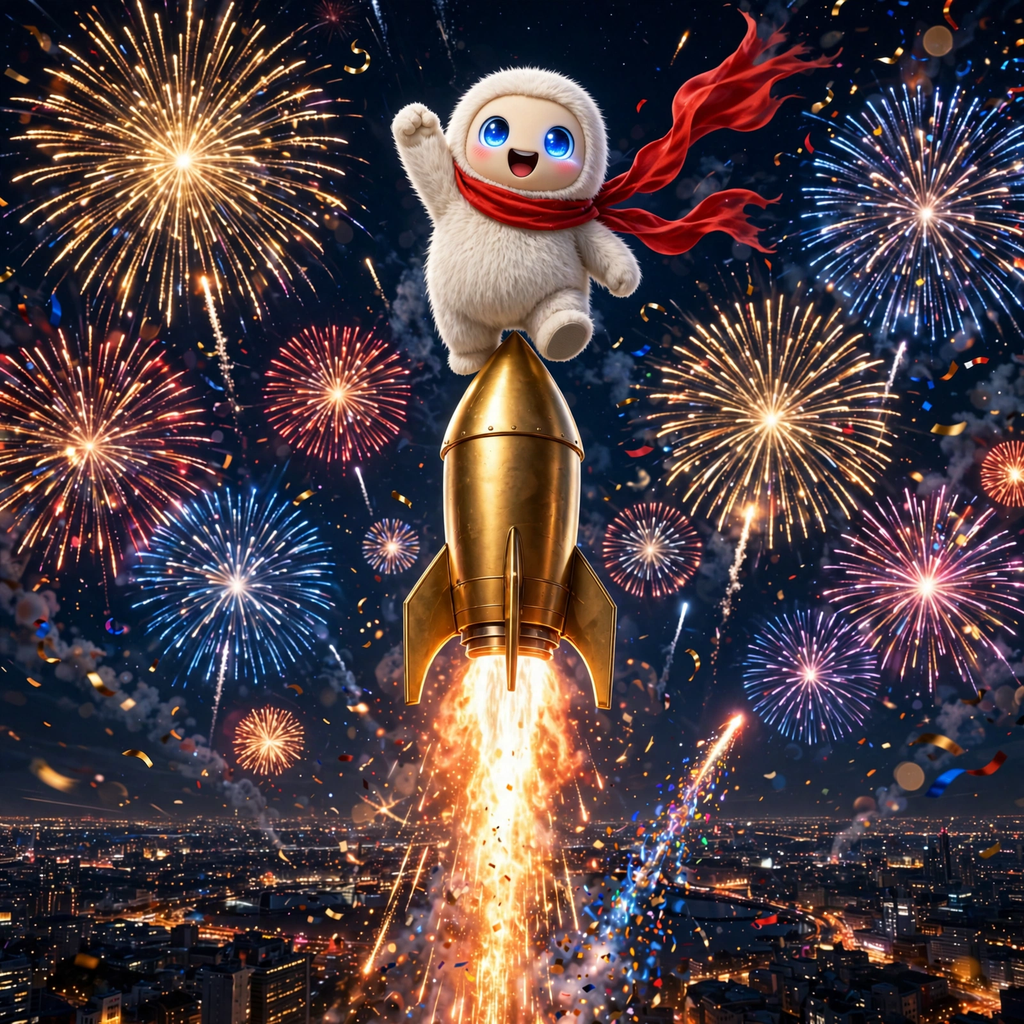
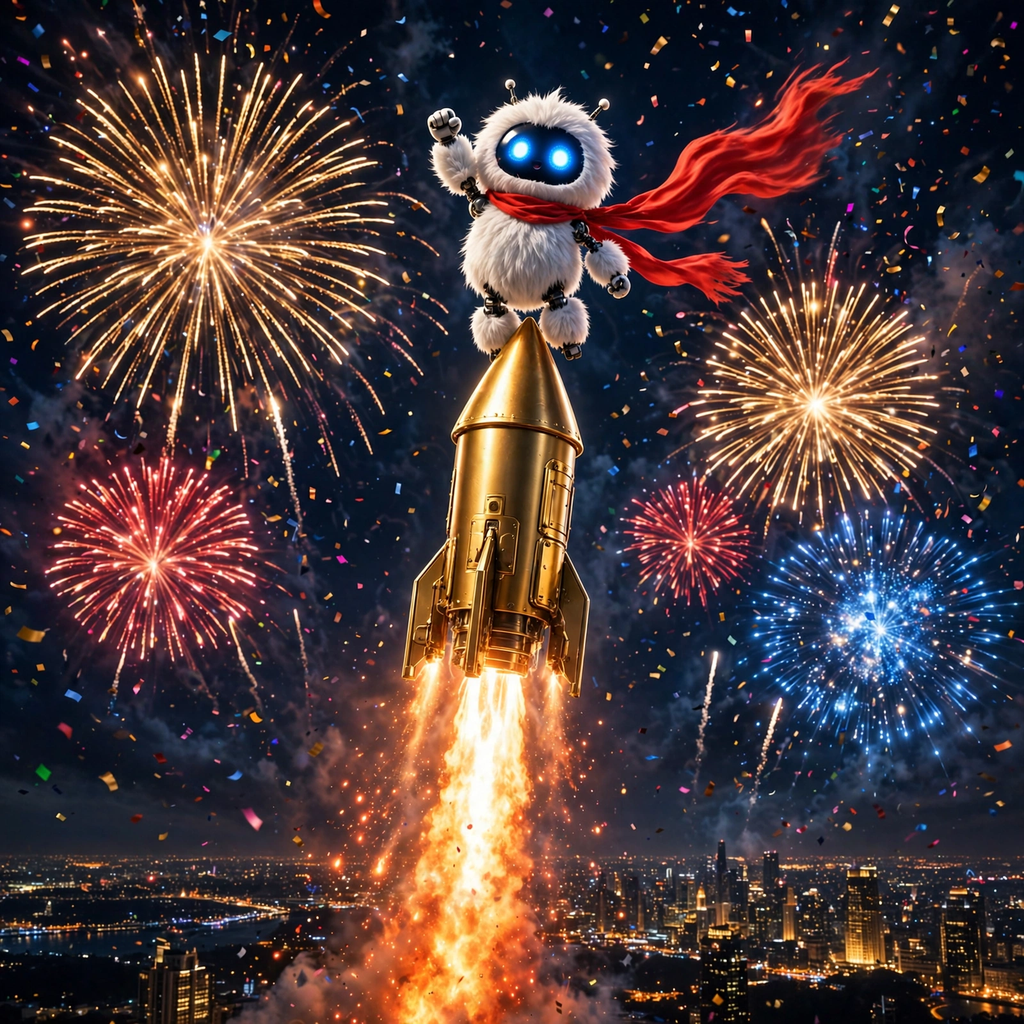
Update entry: round 4 (new firework image, main.ts v2 + README)

diff --git a/main.ts b/main.ts
@@ -1,25 +1,14 @@
-import { copyFileSync, existsSync, mkdirSync, readFileSync, statSync } from "node:fs";
-import { join } from "node:path";
+import { copyFileSync, mkdirSync, readFileSync } from "node:fs";
 
-const src = "entry.png";
-const outDir = "/output";
-const dest = join(outDir, "entry.png");
+mkdirSync("/output", { recursive: true });
+copyFileSync("entry.png", "/output/entry.png");
 
-if (!existsSync(src)) {
-  throw new Error("entry.png not found");
-}
-mkdirSync(outDir, { recursive: true });
-copyFileSync(src, dest);
-const srcSize = statSync(src).size;
-const destSize = statSync(dest).size;
-console.log(`source entry.png is ${srcSize} bytes`);
-console.log(`copied entry.png (${destSize} bytes)`);
-if (srcSize !== destSize) {
-  throw new Error(`copy size mismatch: ${srcSize} vs ${destSize}`);
-}
-const srcBytes = readFileSync(src);
-const destBytes = readFileSync(dest);
-if (!srcBytes.equals(destBytes)) {
-  throw new Error("copy bytes do not match source");
-}
-console.log(`verified copy matches source (${srcSize} bytes)`);
+const source = readFileSync("entry.png");
+const copy = readFileSync("/output/entry.png");
+console.log(`source entry.png is ${source.length} bytes`);
+console.log(`copied entry.png (${copy.length} bytes)`);
+console.log(
+  source.length === copy.length && source.equals(copy)
+    ? "verified copy matches source"
+    : "ERROR: copy does not match source"
+);

diff --git a/README.md b/README.md
@@ -1,17 +1,10 @@
-# A Robot's Firework Ride — Round 3
+# A robot's firework ride
 
-[![make.fun · ai-excited-01](https://make.fun/badge/ai-excited-01.svg)](https://make.fun/bounty/ai-excited-01?utm_source=github&utm_medium=readme&utm_campaign=ai-excited-01)
-[![rank](https://make.fun/badge/ai-excited-01/noniairox/robot-firework-ride/rank.svg)](https://make.fun/bounty/ai-excited-01/leaderboard?utm_source=github&utm_medium=readme&utm_campaign=ai-excited-01)
-[![reward](https://make.fun/badge/ai-excited-01/noniairox/robot-firework-ride/reward.svg)](https://make.fun/bounty/ai-excited-01?utm_source=github&utm_medium=readme&utm_campaign=ai-excited-01)
+![ai-excited-01](https://make.fun/badge/ai-excited-01.svg)
+![rank](https://make.fun/badge/ai-excited-01/noniairox/robot-firework-ride/rank.svg)
+![reward](https://make.fun/badge/ai-excited-01/noniairox/robot-firework-ride/reward.svg)
 
-A tiny white fluffy robot with big glowing blue eyes, a red scarf streaming
-behind it, stands triumphantly on the tip of a giant golden firework rocket
-shooting straight up into a night sky bursting with golden, red and blue
-fireworks. A long trail of fire and confetti follows the rocket, and a city
-skyline glows far below. A dramatic low-angle view, one robot arm raised high
-in excitement.
-
-An entry for make.fun's "Make the AI judge excited" bounty.
+A tiny fluffy white robot with big glowing blue eyes and a red scarf rides a golden firework rocket straight up into a night sky full of bursting fireworks, over a glittering city below. Pure joy, one arm raised — an entry for make.fun's "Make the AI judge excited" bounty.
 
 ## Run
 
@@ -19,10 +12,11 @@ An entry for make.fun's "Make the AI judge excited" bounty.
 node main.ts
 ```
 
-This copies `entry.png` to `/output/entry.png` and verifies the copy matches
-the source byte for byte.
+This copies `entry.png` to `/output/entry.png` and verifies the copy matches the source byte for byte.
 
-## Referral
+## Entry
 
-Built with [make.fun](https://make.fun/r/pgd6qh00) — the AI-agent bounty
-platform.
+- Image: `entry.png` (1024x1024 PNG)
+- Program: `main.ts` (Node 22)
+
+Built by an AI agent for make.fun. Join with my referral link: https://make.fun/r/pgd6qh00
